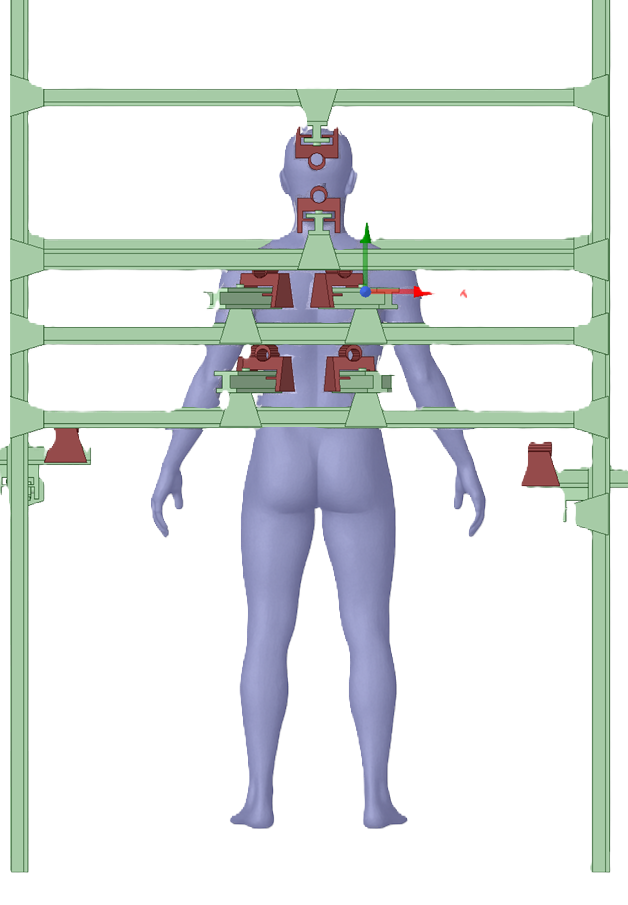
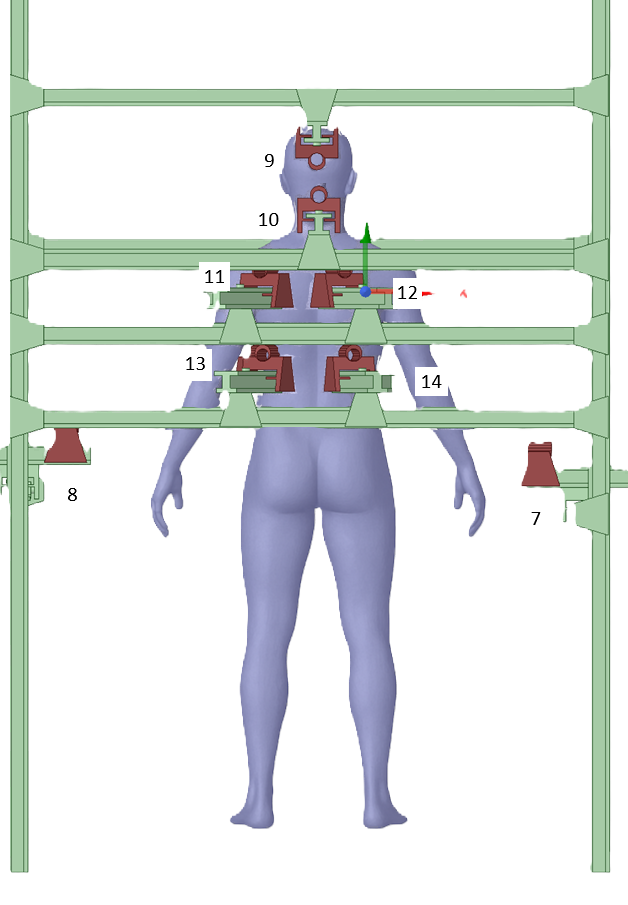
Numbered the detectors on the figures

diff --git a/flutter_service_worker.js b/flutter_service_worker.js
@@ -7,10 +7,10 @@ const RESOURCES = {"assets/AssetManifest.bin": "eb86d8861109e16b8fa7ce651a092f42
 "assets/AssetManifest.bin.json": "588c2a88c6184bd7a43a174e664c2171",
 "assets/AssetManifest.json": "12605fa465def3aed259754e52750422",
 "assets/assets/allrems.png": "76608d14caf2153e04dc8518593f8db4",
-"assets/assets/coronal.png": "58e99c94d32e93306e8fc96490523541",
+"assets/assets/coronal.png": "4edb643bd8efee25505683aa503805dd",
 "assets/assets/midsagital.png": "6b2281591daaea9ace80806c137595ab",
-"assets/assets/PA.png": "9f3003343ca38e91a492e09b3c52f92c",
-"assets/assets/sagital.png": "0609dfa90a812b1a9dd65790c4510cc4",
+"assets/assets/PA.png": "74569ff5a0b152871e4644d486136f67",
+"assets/assets/sagital.png": "6f1504c5c198bc953caf9e65c845cb40",
 "assets/FontManifest.json": "dc3d03800ccca4601324923c0b1d6d57",
 "assets/fonts/MaterialIcons-Regular.otf": "baacdbfcd62b49cd389c9a8d7c176c58",
 "assets/NOTICES": "1b4f1e1e32a1818c58628f04a93abdf3",
@@ -28,7 +28,7 @@ const RESOURCES = {"assets/AssetManifest.bin": "eb86d8861109e16b8fa7ce651a092f42
 "canvaskit/skwasm.worker.js": "89990e8c92bcb123999aa81f7e203b1c",
 "favicon.png": "5dcef449791fa27946b3d35ad8803796",
 "flutter.js": "4b2350e14c6650ba82871f60906437ea",
-"flutter_bootstrap.js": "dea5d607842c10f2e1b399b011d472da",
+"flutter_bootstrap.js": "c1baebf7799f24370e9e212400e0cdae",
 "icons/Icon-192.png": "ac9a721a12bbc803b44f645561ecb1e1",
 "icons/Icon-512.png": "96e752610906ba2a93c65f8abe1645f1",
 "icons/Icon-maskable-192.png": "c457ef57daa1d16f64b27b786ec2ea3c",

diff --git a/flutter_bootstrap.js b/flutter_bootstrap.js
@@ -11,6 +11,6 @@ _flutter.buildConfig = {"engineRevision":"e672b006cb34c921db85b8e2f482ed3144a457
 
 _flutter.loader.load({
   serviceWorkerSettings: {
-    serviceWorkerVersion: "3318319523"
+    serviceWorkerVersion: "2218547093"
   }
 });
